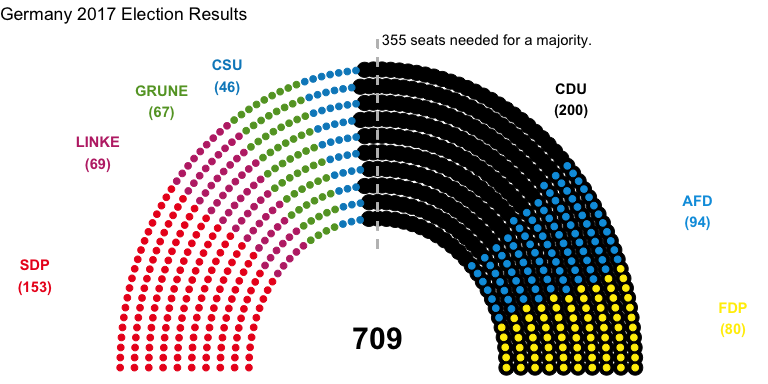
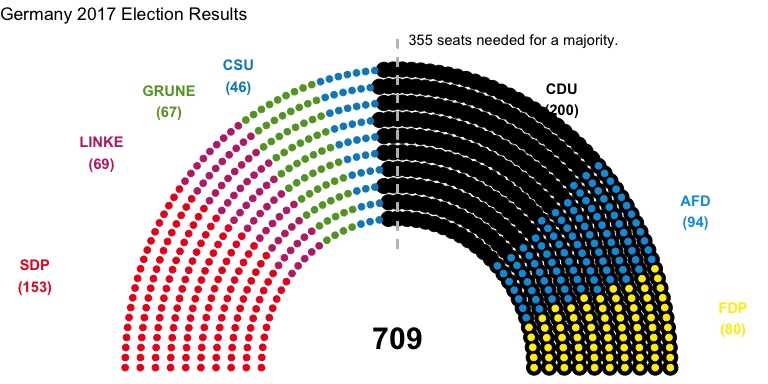
update with hanging seats info

diff --git a/README.md b/README.md
@@ -560,7 +560,8 @@ german_parliament_labelled <- ggplot(germany, aes(x,
   geom_highlight_government(government == 1) + 
   draw_majoritythreshold(n = 355,
                          type = 'semicircle', 
-                         label = TRUE) + 
+                         label = TRUE,
+                         line_size = 0.8) + 
   draw_legislaturelabels(total_parliamentary_seats = 709,
                          type = 'semicircle') + 
   labs(title="Germany 2017 Election Results") + 
@@ -579,6 +580,9 @@ german_parliament_labelled
 
 We might need to make our own theme...
 I think theme_void() + theme(legend.postion = 'none') might work... Thoughts?
+
+## Hanging seats
+Germany and New Zealand have [hanging seats](https://www.bloomberg.com/graphics/2017-how-germany-forms-government/) where a party's share of the local-representative vote exceeds its percentage of the party vote. This results in extra seats and the folks at Bloomberg draw them as hollow seats in the link above. No reason we can't do the same - we would need to clone the original layers, then plot a hollow shape over the top, removing the bottom layers in the process (i.e. similar to `geom_electoral_quotas()` or `geom_women_in_parliament()`).
 
 ## Women in parliament
 
